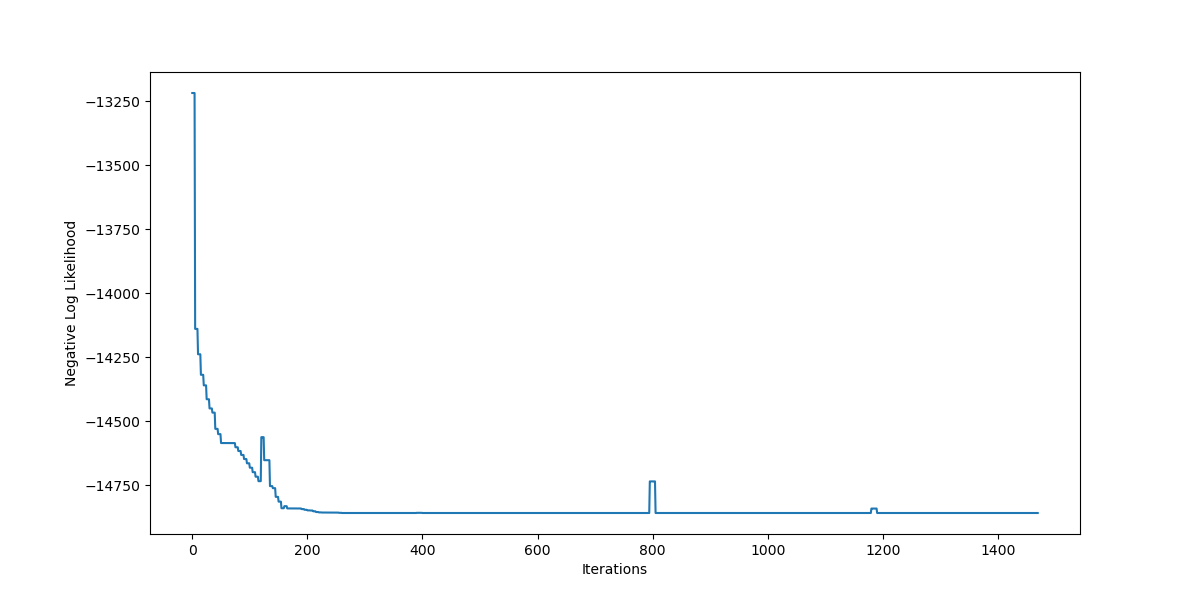
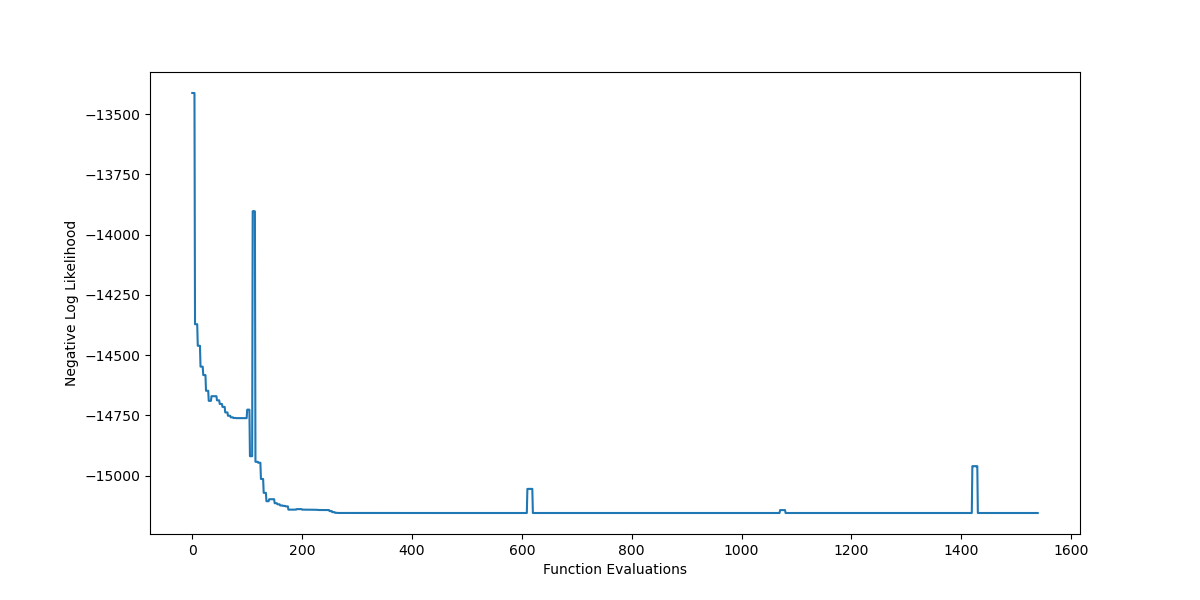
saving parameters using pickle

diff --git a/data_generation_processes/DCC_GARCH_2step.py b/data_generation_processes/DCC_GARCH_2step.py
@@ -3,6 +3,7 @@ import matplotlib.pyplot as plt
 from scipy.optimize import minimize
 from scipy.optimize import Bounds
 import yfinance as yf
+import pickle
 import GARCH
 
 class DCC_GARCH():
@@ -53,8 +54,8 @@ class DCC_GARCH():
             self.params = np.concatenate((np.var(self.a_data, axis=1), np.zeros(self.N*2)+0.2, np.zeros(self.N)+0.1, np.zeros(2)+0.2))   # parameters [N*alpha0, N*alpha, N*beta, N*gamma, a, b]
         else:
             self.params = np.concatenate((np.var(self.a_data, axis=1), np.zeros(self.N*2)+0.2, np.zeros(2)+0.2))   # parameters [N*alpha0, N*alpha, N*beta, a, b]
-
-        self.nll_losses = []                                                          # negative log likelihood array used to store training losses
+        
+        self.nll_losses = []                                                         # negative log likelihood array used to store training losses
         
         def constraint_ab(x):
             """DCC constraint a + b < 1"""
@@ -178,22 +179,25 @@ class DCC_GARCH():
         self.nll_losses.append(nll)
         return nll
     
-    def train(self):
+    def train(self, save_params = False):
         """Training loop"""
         garch_params = self.params[0:-2]
         garch_results = minimize(fun=self.garch_neg_log_likelihood, x0=garch_params, method="trust-constr",
                            options={'verbose': 3, 'maxiter': 2000, 'xtol': 1e-4}, constraints=self.garch_constraints, bounds=self.garch_bounds)
         self.params[0:-2] = garch_results.x
-        print(self.params)
         
         dcc_params = self.params[-2:]
         dcc_results = minimize(fun=self.dcc_neg_log_likelihood, x0=dcc_params, method="trust-constr",
                            options={'verbose': 3, 'maxiter': 2000, 'xtol': 1e-8}, constraints=self.dcc_constraints, bounds=self.dcc_bounds)
         self.params[-2:] = dcc_results.x
-        print(self.params)
+        
+        if save_params:
+            with open('dcc_garch_parameters.pickle', 'wb') as parameter_file:
+                pickle.dump(self.params, parameter_file)
+
         return self.params
 
-    def train_R(self):
+    def train_R(self, save_params=False):
         parameters = []
 
         for i in range(len(list(stocks.split(" ")))):
@@ -210,10 +214,19 @@ class DCC_GARCH():
         dcc_results = minimize(fun=self.dcc_neg_log_likelihood, x0=dcc_params, method="trust-constr",
                            options={'verbose': 3, 'maxiter': 2000, 'xtol': 1e-8}, constraints=self.dcc_constraints, bounds=self.dcc_bounds)
         self.params[-2:] = dcc_results.x
+
+        if save_params:
+            with open('dcc_garch_parameters.pickle', 'wb') as parameter_file:
+                pickle.dump(self.params, parameter_file)
+
         return self.params
     
-    def generate(self, S_0, num_points):
+    def generate(self, S_0, num_points, load_params=False):
         """Loop used to generate paths using the estimated parameters"""
+        if load_params:
+            with open('dcc_garch_parameters.pickle', 'rb') as parameter_file:
+                self.params = pickle.load(parameter_file)
+        
         prices = np.ones((self.N, num_points)) * S_0                                # (N, num_points) Paths of length num_points of the N assets
         self.D = np.diag(np.std(self.a_data, axis=1))
         self.R = np.corrcoef(self.a_data)
@@ -225,7 +238,7 @@ class DCC_GARCH():
             self.D_t(params=self.params)
             self.R_t(params=self.params)
         return prices
-    
+
 """
 ^GDAXI: DAX (Germany)
 ^IXIC: NASDAQ
@@ -240,12 +253,12 @@ MCD: McDonald's
 AAPL: Apple
 """
 
-stocks = "AAPL ^GDAXI ^IXIC ^GSPC ^DJI ^RUT ^N225 ^HSI ^NYA ^FCHI"
+stocks = "AAPL ^GSPC"
 garch_type = "gjr"
 
 dcc_garch_model = DCC_GARCH(stocks=stocks, type=garch_type)
 
-params = dcc_garch_model.train_R()
+params = dcc_garch_model.train_R(save_params=True)
 print(params)
 
 plt.figure(figsize=(12,6))
@@ -256,7 +269,7 @@ plt.savefig("dcc_nll_losses.png")
 plt.close()
 
 plt.figure(figsize=(12,6))
-x = dcc_garch_model.generate(S_0=100, num_points=252*5)
+x = dcc_garch_model.generate(S_0=100, num_points=252*5, load_params=True)
 plt.plot(x.T)
 plt.xlabel("Timesteps")
 plt.ylabel("Prices")

diff --git a/data_generation_processes/GARCH.py b/data_generation_processes/GARCH.py
@@ -3,7 +3,7 @@ import matplotlib.pyplot as plt
 import scipy
 from scipy.optimize import minimize
 from scipy.optimize import Bounds
-print(scipy.__version__)
+import pickle
 import yfinance as yf
 
 class GARCH():
@@ -20,7 +20,7 @@ class GARCH():
         h_t:        conditional variance of a_t at time t.
         z_t:        iid errors such that E[z_t] = 0 and E[z_t z_t] = 1.
     """
-    def __init__(self, dcc=False, data=None, stocks=None, start="2000-01-01", end="2024-08-20", type = "vanilla"):
+    def __init__(self, dcc=False, data=None, stock=None, start="2000-01-01", end="2024-08-20", type = "vanilla"):
         """
             Args:
             data: (N,T) numpy array of T timesteps asset log returns
@@ -29,7 +29,7 @@ class GARCH():
         if dcc:
             self.data = data
         else:
-            market_data = yf.download(stocks, start=start, end=end, interval="1d")
+            market_data = yf.download(stock, start=start, end=end, interval="1d")
             log_returns = np.log(market_data['Close'] / market_data['Close'].shift(1)).dropna()
             self.data = log_returns.to_numpy().T
         self.type = type
@@ -91,7 +91,7 @@ class GARCH():
 
         return nll
     
-    def train(self):
+    def train(self, save_params=False):
         """Training loop"""
         params = self.params
         results = minimize(fun=self.neg_log_likelihood, x0=params, method="trust-constr",
@@ -104,10 +104,18 @@ class GARCH():
             print("GJR-GARCH estimated unconditional variance: ", self.params[0]/(1-self.params[1]-self.params[2]-self.params[3]/2))
         print("Market data unconditional variance: ", np.var(self.a_data))
         
+        if save_params:
+            with open('garch_parameters.pickle', 'wb') as parameter_file:
+                pickle.dump(self.params, parameter_file)
+        
         return results.x
 
-    def generate(self, S_0, num_points):
+    def generate(self, S_0, num_points, load_params=False):
         """Loop used to generate paths using the estimated parameters"""
+        if load_params:
+            with open('garch_parameters.pickle', 'rb') as parameter_file:
+                self.params = pickle.load(parameter_file)
+        
         prices = np.ones(num_points) * S_0
         self.h = np.var(self.a_data)
         for t in range(num_points):
@@ -115,18 +123,17 @@ class GARCH():
             r_t = self.mu + self.a_return
             prices[t+1:t+2] = prices[t:t+1]*np.exp(r_t)
             self.h_t(params=self.params)
+        
         return prices
 
-# # Process dataset
-# stocks = "AAPL"
-# data = yf.download(stocks, start="2000-09-10", end="2024-08-20", interval="1d")
-# # data = yf.download(stocks, start="1986-12-31", end="2010-04-01", interval="1d")
-# log_returns = np.log(data['Close'] / data['Close'].shift(1)).dropna()
-# log_returns_np = log_returns.to_numpy().T
 
-# model = GARCH(log_returns_np, type="gjr")
 
-# params = model.train()
+stock = "AAPL"
+
+model = GARCH(stock=stock, type="gjr")
+
+# Training
+# params = model.train(save_params=True)
 # print("parameters: ", params)
 
 # plt.figure(figsize=(12,6))
@@ -136,11 +143,13 @@ class GARCH():
 # plt.savefig("garch_nll_losses.png")
 # plt.close()
 
-# x = model.generate(100, 252*5)
-
-# plt.figure(figsize=(12,6))
-# plt.plot(x.T)
-# plt.xlabel("Timesteps")
-# plt.ylabel("Prices")
-# plt.savefig("garch_test.png")
-# plt.close()
+# Generating
+x = model.generate(100, 252*5, load_params=True)
+print(model.params)
+plt.figure(figsize=(12,6))
+plt.plot(x.T)
+plt.xlabel("Timesteps")
+plt.ylabel("Prices")
+plt.legend([stock])
+plt.savefig("garch_test.png")
+plt.close()
